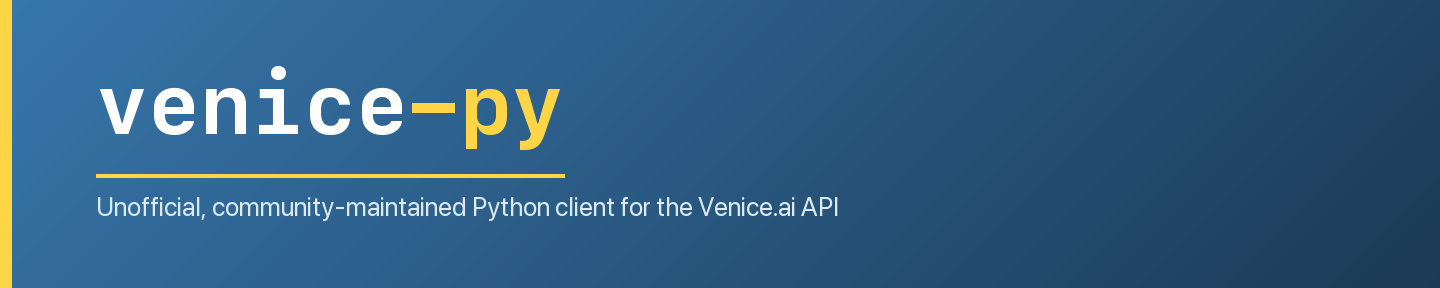
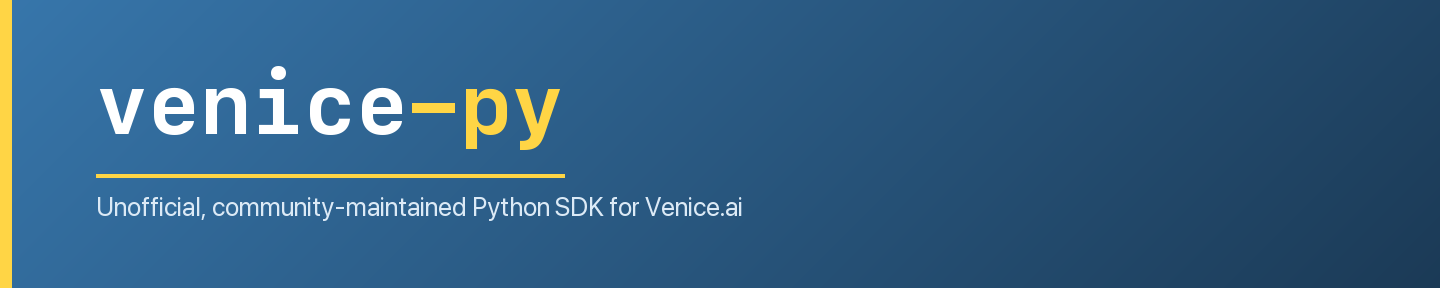
docs: call it an SDK consistently, including on PyPI
The prose is already near-unanimous: 163 uses of "SDK" across the README,
website and skills against a single "client library" -- and that one was the
pyproject description, which is the summary line on the PyPI page.

"Client library" describes a request/response wrapper around an API, which is
what openai-python and anthropic-sdk-python are. This ships a CLI with ~15
command groups, four bundled skills, pluggable rate limiting with a Redis
backend, OpenTelemetry and Prometheus observability, cost tracking, TEE
client-side E2EE and x402 wallet auth on two chains. "SDK" is the accurate
word for that, not merely the more common one in these docs.

- pyproject description (the PyPI summary line)
- banner tagline and README alt text
- package docstring, which said "the SDK provides a client library" -- an SDK
  providing a client library is circular, and it surfaces in the generated
  API reference

"SDK for Venice.ai" rather than "SDK for the Venice.ai API": an SDK targets a
platform, an API client targets an endpoint. Matches the website tagline.

Left alone: "the Prometheus client library" in _validation.py, which refers to
a different project and is correct as written.

Changed region(s): [[0.375, 0.6875, 0.5938, 0.75]]

diff --git a/src/venice_ai/__init__.py b/src/venice_ai/__init__.py
@@ -1,10 +1,10 @@
 """
-Venice AI SDK - Python Client Library
-====================================
+venice-py - Venice AI Python SDK
+================================
 
-The Venice AI SDK provides a comprehensive Python client library for interacting with the
-Venice AI API. This SDK includes advanced features like intelligent rate limiting, circuit
-breakers, request queuing, and comprehensive error handling.
+An unofficial, community-maintained Python SDK for the Venice AI API, with
+intelligent rate limiting, circuit breakers, request queuing, and comprehensive
+error handling.
 
 Key Features:
     * **VeniceClient**: Main client for API interactions

diff --git a/README.md b/README.md
@@ -2,7 +2,7 @@
 
 <div align="center">
 
-<a href="https://venice-docs.sbang.dev/"><img src="https://raw.githubusercontent.com/sethbang/venice-ai/main/website/static/img/venice-py-banner.png" alt="venice-py — unofficial, community-maintained Python client for the Venice.ai API" width="720"></a>
+<a href="https://venice-docs.sbang.dev/"><img src="https://raw.githubusercontent.com/sethbang/venice-ai/main/website/static/img/venice-py-banner.png" alt="venice-py — unofficial, community-maintained Python SDK for Venice.ai" width="720"></a>
 
 [![PyPI version](https://img.shields.io/pypi/v/venice-py.svg)](https://pypi.org/project/venice-py/)
 [![Python Versions](https://img.shields.io/pypi/pyversions/venice-py.svg)](https://pypi.org/project/venice-py/)
